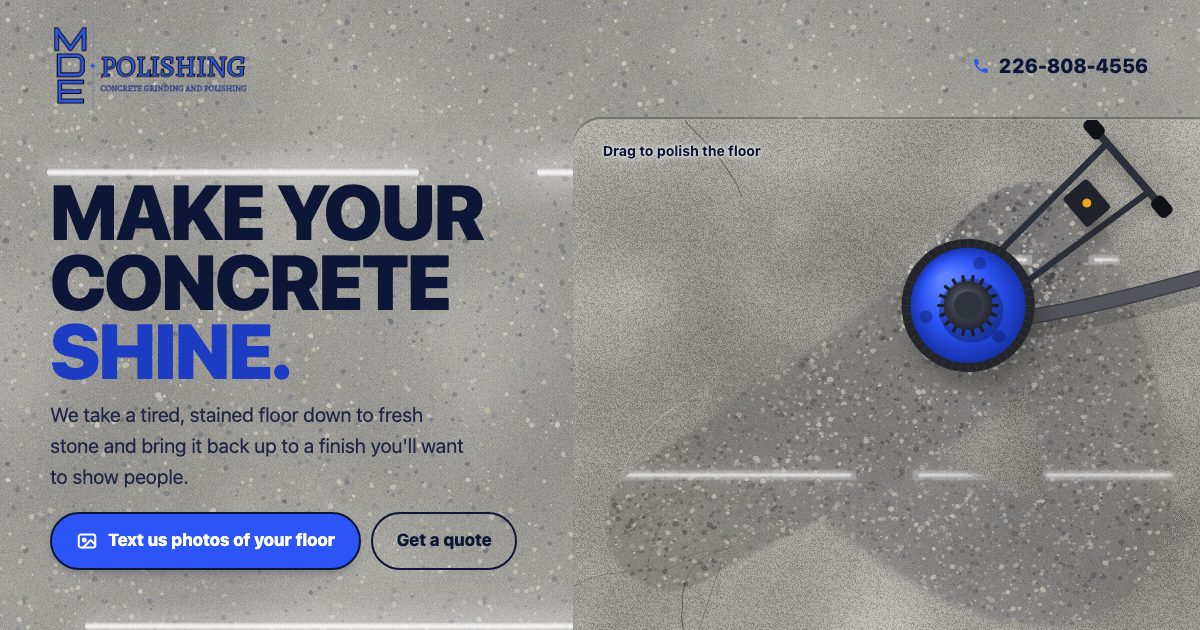
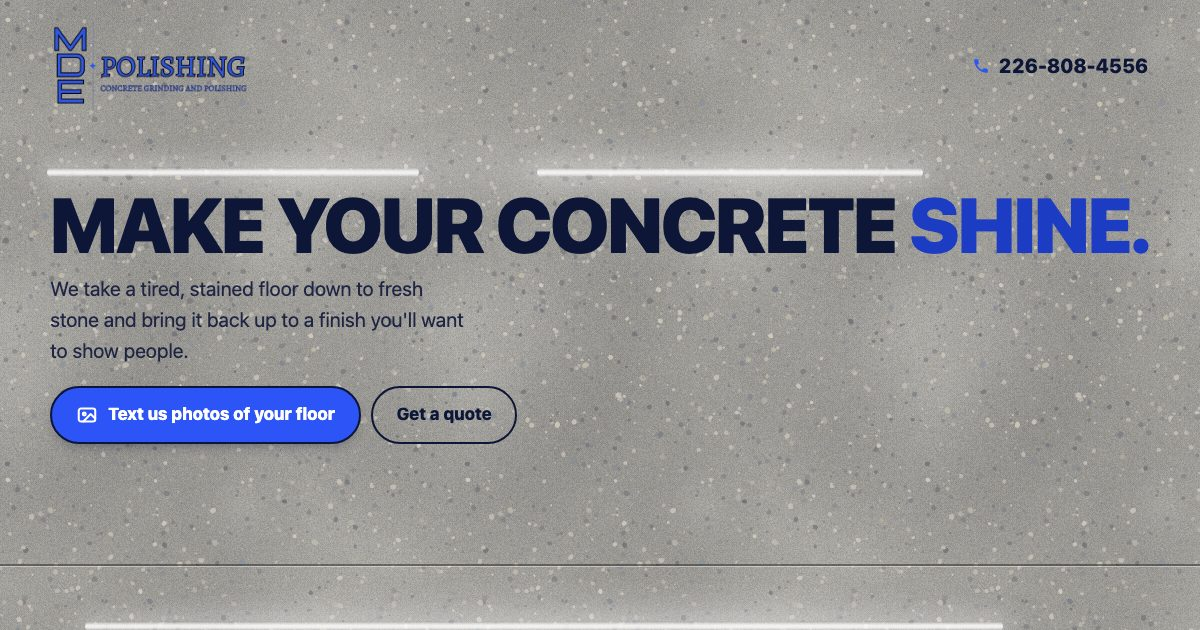
Remove the interactive polish-the-slab hero; hero is copy on the floor
Claude-Session: https://claude.ai/code/session_01MKEojM6ZRDTyDfnrvZtAUF

diff --git a/index.html b/index.html
@@ -70,18 +70,12 @@ p{margin:0}
 .phone:hover{color:var(--blue-deep)}
 
 /* ---------- hero ---------- */
-.hero{position:relative;display:flex;flex-direction:column;min-height:min(calc(100svh - 94px),980px)}
-@media (orientation:landscape) and (max-height:500px){.slab-wrap{min-height:200px}}
-.hero-copy{padding-top:10px;padding-bottom:22px}
+.hero{position:relative}
+.hero-copy{padding-top:10px;padding-bottom:56px}
 .hero h1{font-size:clamp(2.75rem,13.4vw,5.6rem);line-height:.9;letter-spacing:-.025em}
 .hero h1 em{font-style:normal;color:var(--blue-deep)}
 .promise{margin-top:14px;max-width:34ch;font-size:clamp(1.0625rem,4.4vw,1.25rem);color:var(--ink-soft)}
 .actions{display:grid;gap:10px;margin-top:20px}
-.slab-wrap{position:relative;flex:1;min-height:250px;overflow:hidden;background:#bdbab3;box-shadow:0 -1px 0 rgba(255,255,255,.35),0 -3px 0 rgba(38,36,32,.35)}
-#slab{position:absolute;inset:0;width:100%;height:100%;touch-action:none;cursor:grab;-webkit-user-select:none;user-select:none;-webkit-tap-highlight-color:transparent}
-#slab:active{cursor:grabbing}
-.slab-hint{position:absolute;left:16px;top:12px;z-index:1;margin:0;text-shadow:0 0 8px #e9e8e4,0 0 3px #e9e8e4,0 0 1px #e9e8e4;color:var(--ink);font-size:.875rem;font-weight:700;pointer-events:none;transition:opacity .6s}
-.slab-hint.gone{opacity:0}
 
 /* ---------- epoxy pour dividers ---------- */
 .pour{display:block;width:100%;height:46px;margin-top:-1px;margin-bottom:-1px;position:relative;z-index:2}
@@ -194,12 +188,9 @@ footer .links{display:flex;flex-wrap:wrap;gap:4px 22px}
   .wrap{padding:0 40px}
   .top .wrap{padding-top:18px}
   .phone{font-size:1.25rem}
-  .hero{display:grid;grid-template-columns:minmax(0,5fr) minmax(0,6fr);min-height:min(calc(100vh - 92px),820px);max-width:none;padding-left:max(40px,calc((100vw - 1180px)/2 + 40px))}
-  .hero-copy{align-self:center;padding:30px 40px 60px 0;margin:0;max-width:none}
+  .hero-copy{padding-top:70px;padding-bottom:120px}
   .hero h1{font-size:clamp(4rem,6.4vw,6rem)}
   .promise{font-size:1.25rem}
-  .slab-wrap{margin:0;border-radius:28px 0 0 28px}
-  .slab-hint{left:30px;top:20px}
   .band{padding:96px 0 104px}
   .svc .wrap,.how .wrap{display:grid;grid-template-columns:minmax(0,4fr) minmax(0,7fr);gap:60px;align-items:start}
   .svc-list,.steps{margin-top:6px}
@@ -215,10 +206,10 @@ footer .links{display:flex;flex-wrap:wrap;gap:4px 22px}
 <body>
 <!--
 DIRECTION CONTRACT
-THESIS: A raw, dusty slab becomes a floor you can see yourself in. The page lets you do that yourself.
-OWN-WORLD: The polishing floor. The whole page sits on polished salt-and-pepper concrete with the shop's light tubes reflecting in it; the reflections drift as you scroll. Matte grey concrete with trowel marks and an oil stain; a blue floor grinder (the logo's blue) that cuts through it to salt-and-pepper aggregate and a deep gloss that reflects the shop lights. Edges between sections are wet epoxy pours, flowing.
-STORY: Hero (watch the grinder polish, then take the handle) -> what we do (six services, each one text-to-quote) -> how a quote works (photos first) -> before/after sliders of real jobs, then Facebook -> quote form that writes the text -> close with the number.
-FIRST VIEWPORT (phone): logo + number top-right, "Make your concrete shine.", one-line promise, two buttons (text photos / get a quote), the living slab beneath.
+THESIS: A raw, dusty slab becomes a floor you can see yourself in. The page itself is that floor.
+OWN-WORLD: The polishing floor. The whole page sits on polished salt-and-pepper concrete with the shop's light tubes reflecting in it; the reflections drift as you scroll. Light sections meet at saw-cut joints; navy bands are epoxy poured over the floor, with flowing edges.
+STORY: Hero (headline and the two buttons, on the floor) -> what we do (six services, each one text-to-quote) -> how a quote works (photos first) -> before/after sliders of real jobs, then Facebook -> quote form that writes the text -> close with the number.
+FIRST VIEWPORT (phone): logo + number top-right, "Make your concrete shine.", one-line promise, two buttons (text photos / get a quote), all on the polished floor with the light reflections drifting under it.
 FORM: Heavy uppercase system sans, outlined buttons echoing the outlined logo letters, logo blue + navy on concrete grey, navy epoxy bands for depth, saw-cut joints between floor sections. No black grounds.
 -->
 <header class="top">
@@ -237,10 +228,6 @@ FORM: Heavy uppercase system sans, outlined buttons echoing the outlined logo le
         <a class="btn btn-primary" id="hero-text" href="sms:+12268084556"><svg viewBox="0 0 24 24" fill="none" stroke="currentColor" stroke-width="2.2" stroke-linecap="round" stroke-linejoin="round" aria-hidden="true"><rect x="3" y="5" width="18" height="14" rx="2.5"/><circle cx="9" cy="11" r="1.6"/><path d="m21 16-5-5-8 8"/></svg>Text us photos of your floor</a>
         <a class="btn btn-ghost" href="#quote">Get a quote</a>
       </div>
-    </div>
-    <div class="slab-wrap" id="slab-wrap">
-      <canvas id="slab" aria-label="A concrete floor being polished by a floor grinder. Drag across it to polish it yourself." role="img"></canvas>
-      <p class="slab-hint" id="slab-hint">Drag to polish the floor</p>
     </div>
   </section>
 
@@ -553,284 +540,6 @@ var MDE_reduced = window.matchMedia('(prefers-reduced-motion: reduce)').matches;
   size(); place();
   window.addEventListener('resize', function(){ size(); place(); });
   window.addEventListener('scroll', place, {passive:true});
-})();
-
-/* ---------- hero: the slab you polish ---------- */
-(function(){
-  /* tunables */
-  var DPR_CAP = 1.5;           /* animated canvas sharpness cap */
-  var MASK_SCALE = 0.5;        /* polish mask resolution vs CSS px */
-  var REGROW_EVERY = 8;        /* frames between dulling steps */
-  var REGROW = 0.007;          /* how fast polish fades back to matte */
-  var POLISH_RATE = 0.6;       /* opacity per grinder stamp */
-  var FOLLOW = 7.5;            /* how hard the grinder chases your finger (spring) */
-  var DAMP = 5.2;              /* grinder damping */
-  var SPIN = 9;                /* motor cap spin, rad/s */
-  var IDLE_MS = 2600;          /* hand back to autopilot after this */
-  var AUTO_SPEED = 0.00042;    /* autopilot path speed */
-
-  var wrap = document.getElementById('slab-wrap');
-  var cv = document.getElementById('slab');
-  var hint = document.getElementById('slab-hint');
-  var ctx = cv.getContext('2d');
-  var W = 0, H = 0, dpr = 1, R = 40;
-  var raw, polished, layer, lctx, mask, mctx, lights;
-  var g = {x:0, y:0, vx:0, vy:0, ang:Math.PI*0.5, spin:0, px:0, py:0};
-  var hose = {x:0, y:0};       /* vacuum hose tail, drags behind the machine */
-  var ptr = {x:0, y:0, cx:0, cy:0, on:false, last:-1e9};
-  var dust = [], frame = 0, visible = true, lastT = 0, t0 = 0;
-
-  function rnd(a, b){ return a + Math.random() * (b - a); }
-  function mk(w, h){ var c = document.createElement('canvas'); c.width = w; c.height = h; return c; }
-
-  /* organic hairline crack */
-  function crack(c, x, y, len, ang, alpha, w){
-    c.strokeStyle = 'rgba(40,38,36,' + alpha + ')'; c.lineWidth = w; c.lineCap = 'round';
-    c.beginPath(); c.moveTo(x, y);
-    for (var s = 0; s < len; s += 6 * dpr){
-      ang += rnd(-0.22, 0.22); x += Math.cos(ang) * 6 * dpr; y += Math.sin(ang) * 6 * dpr; c.lineTo(x, y);
-      if (Math.random() < 0.025) crack(c, x, y, len * 0.3, ang + rnd(-1, 1), alpha * 0.8, w * 0.7);
-    }
-    c.stroke();
-  }
-
-  function grain(c, w, h, amt){
-    var t = mk(160, 160), tc = t.getContext('2d'), id = tc.createImageData(160, 160), p = id.data;
-    for (var i = 0; i < p.length; i += 4){ var v = Math.random() < 0.5 ? 0 : 255; p[i] = p[i+1] = p[i+2] = v; p[i+3] = Math.random() * amt; }
-    tc.putImageData(id, 0, 0);
-    c.fillStyle = c.createPattern(t, 'repeat'); c.fillRect(0, 0, w, h);
-  }
-
-  function build(){
-    var r = wrap.getBoundingClientRect();
-    var nw = Math.round(r.width), nh = Math.round(r.height);
-    if (nw === W && nh === H) return false;           /* phones fire resize when the address bar moves */
-    W = nw; H = nh; dpr = Math.min(window.devicePixelRatio || 1, DPR_CAP);
-    var w = Math.round(W * dpr), h = Math.round(H * dpr);
-    cv.width = w; cv.height = h;
-    R = Math.max(30, Math.min(64, Math.min(W, H) * 0.13));
-    var seed = [];
-    for (var k = 0; k < 2; k++) seed.push({x:rnd(0, w), y:rnd(0, h), l:rnd(0.35, 0.8) * Math.max(w, h), a:rnd(0, 6.28)});
-    var stain = {x:w * rnd(0.55, 0.8), y:h * rnd(0.3, 0.7), r:Math.min(w, h) * rnd(0.12, 0.18)};
-
-    /* raw slab: matte, dusty, trowel-marked */
-    raw = mk(w, h); var c = raw.getContext('2d');
-    c.fillStyle = '#bcb9b2'; c.fillRect(0, 0, w, h);
-    for (var i = 0; i < 70; i++){
-      var bx = rnd(0, w), by = rnd(0, h), br = rnd(40, 220) * dpr, light = Math.random() < 0.5;
-      var gr = c.createRadialGradient(bx, by, 0, bx, by, br);
-      gr.addColorStop(0, light ? 'rgba(232,229,222,.16)' : 'rgba(120,116,108,.12)'); gr.addColorStop(1, 'rgba(0,0,0,0)');
-      c.fillStyle = gr; c.fillRect(bx - br, by - br, br * 2, br * 2);
-    }
-    c.lineWidth = 1.2 * dpr;
-    for (i = 0; i < 26; i++){                          /* trowel swirls */
-      var tx = rnd(0, w), ty = rnd(0, h), tr = rnd(60, 180) * dpr, a0 = rnd(0, 6.28);
-      c.strokeStyle = 'rgba(236,233,226,' + rnd(0.08, 0.2) + ')';
-      c.beginPath(); c.arc(tx, ty, tr, a0, a0 + rnd(0.5, 1.4)); c.stroke();
-    }
-    var og = c.createRadialGradient(stain.x, stain.y, 0, stain.x, stain.y, stain.r);   /* oil stain */
-    og.addColorStop(0, 'rgba(70,64,56,.42)'); og.addColorStop(0.55, 'rgba(84,78,70,.28)'); og.addColorStop(1, 'rgba(90,84,76,0)');
-    c.save(); c.translate(stain.x, stain.y); c.scale(1.35, 0.85); c.translate(-stain.x, -stain.y);
-    c.fillStyle = og; c.beginPath(); c.arc(stain.x, stain.y, stain.r, 0, 6.28); c.fill(); c.restore();
-    for (i = 0; i < 160; i++){ c.fillStyle = 'rgba(90,86,80,' + rnd(0.15, 0.4) + ')'; c.beginPath(); c.arc(rnd(0, w), rnd(0, h), rnd(0.5, 1.6) * dpr, 0, 6.28); c.fill(); }  /* pits */
-    grain(c, w, h, 46);
-    seed.forEach(function(s){ crack(c, s.x, s.y, s.l, s.a, 0.42, 1.3 * dpr); });
-
-    /* polished slab: ground to the stone, clear and glossy */
-    polished = mk(w, h); c = polished.getContext('2d');
-    c.fillStyle = '#8f8c86'; c.fillRect(0, 0, w, h);
-    for (i = 0; i < 40; i++){
-      bx = rnd(0, w); by = rnd(0, h); br = rnd(60, 260) * dpr;
-      gr = c.createRadialGradient(bx, by, 0, bx, by, br);
-      gr.addColorStop(0, Math.random() < 0.5 ? 'rgba(165,161,153,.18)' : 'rgba(110,106,100,.16)'); gr.addColorStop(1, 'rgba(0,0,0,0)');
-      c.fillStyle = gr; c.fillRect(bx - br, by - br, br * 2, br * 2);
-    }
-    var stones = ['#5e5a55','#6c675f','#4a4642','#7d776e','#9b948a','#3d3a37','#a99f90','#c9c1b3'];   /* cut aggregate, salt and pepper */
-    var n = Math.round(w * h / (9 * dpr * dpr));
-    for (i = 0; i < n; i++){
-      var sx = rnd(0, w), sy = rnd(0, h), sr = Math.pow(Math.random(), 5) * 3.4 * dpr + 0.35 * dpr, sides = 5 + (Math.random() * 4 | 0), rot = rnd(0, 6.28);
-      c.fillStyle = stones[Math.random() * stones.length | 0]; c.globalAlpha = rnd(0.8, 1);
-      c.beginPath();
-      for (var v = 0; v < sides; v++){ var aa = rot + v / sides * 6.28, rr = sr * rnd(0.6, 1.15); c[v ? 'lineTo' : 'moveTo'](sx + Math.cos(aa) * rr, sy + Math.sin(aa) * rr * rnd(0.7, 1)); }
-      c.closePath(); c.fill();
-    }
-    c.globalAlpha = 1;
-    og = c.createRadialGradient(stain.x, stain.y, 0, stain.x, stain.y, stain.r);    /* stain mostly ground away */
-    og.addColorStop(0, 'rgba(70,64,56,.08)'); og.addColorStop(1, 'rgba(70,64,56,0)');
-    c.fillStyle = og; c.fillRect(0, 0, w, h);
-    grain(c, w, h, 12);
-    seed.forEach(function(s){ crack(c, s.x, s.y, s.l, s.a, 0.5, 1.1 * dpr); });
-    var sheen = c.createLinearGradient(0, 0, w, h);                                /* clear-coat sheen */
-    sheen.addColorStop(0, 'rgba(255,255,255,.10)'); sheen.addColorStop(0.45, 'rgba(255,255,255,.02)'); sheen.addColorStop(1, 'rgba(255,255,255,.08)');
-    c.fillStyle = sheen; c.fillRect(0, 0, w, h);
-
-    /* reflection of the shop's light tubes, drawn once, slid each frame (shadowBlur, not ctx.filter: older iPhones lack filter) */
-    lights = mk(w, h * 2); c = lights.getContext('2d');
-    for (var row = 0; row < 5; row++){
-      var ly = h * 0.35 + row * h * 0.4;
-      for (var col = -1; col < 3; col++){
-        var lx = col * w * 0.55 + (row % 2) * w * 0.28, lw = w * 0.46;
-        c.save();
-        c.shadowColor = 'rgba(255,255,248,.75)'; c.shadowBlur = 18 * dpr;
-        c.fillStyle = 'rgba(255,255,250,.35)'; c.fillRect(lx, ly - 5 * dpr, lw, 10 * dpr);
-        c.shadowBlur = 3 * dpr;
-        c.fillStyle = 'rgba(255,255,255,.95)'; c.fillRect(lx + lw * 0.02, ly - 1.5 * dpr, lw * 0.96, 3 * dpr);
-        c.restore();
-      }
-    }
-    var sky = c.createLinearGradient(0, 0, w, 0);                                    /* faint blue from a garage door */
-    sky.addColorStop(0, 'rgba(120,150,255,0)'); sky.addColorStop(0.75, 'rgba(120,150,255,.10)'); sky.addColorStop(1, 'rgba(120,150,255,0)');
-    c.fillStyle = sky; c.fillRect(0, 0, w, h * 2);
-
-    layer = mk(w, h); lctx = layer.getContext('2d');
-    mask = mk(Math.max(1, Math.round(W * MASK_SCALE)), Math.max(1, Math.round(H * MASK_SCALE))); mctx = mask.getContext('2d');
-
-    /* start with a first pass already done, so there's something to see */
-    g.x = W * 0.3; g.y = H * 0.5; g.vx = g.vy = 0; hose.x = g.x + R * 3; hose.y = g.y + R * 2;
-    for (var s = 0; s < 260; s++){ autoTarget(s * 40); g.x += (ptr.cx - g.x) * 0.08; g.y += (ptr.cy - g.y) * 0.08; stamp(g.x, g.y, 0.5); }
-    return true;
-  }
-
-  function autoTarget(t){
-    var u = t * AUTO_SPEED;
-    ptr.cx = W * (0.5 + 0.36 * Math.sin(u * 1.0 + 0.4) + 0.06 * Math.sin(u * 3.1));
-    ptr.cy = H * (0.52 + 0.3 * Math.sin(u * 1.7 + 1.1) + 0.06 * Math.cos(u * 2.3));
-  }
-
-  function stamp(x, y, k){
-    var s = MASK_SCALE, rr = R * 1.05 * s;
-    var gr = mctx.createRadialGradient(x * s, y * s, 0, x * s, y * s, rr);
-    gr.addColorStop(0, 'rgba(0,0,0,' + (POLISH_RATE * k) + ')'); gr.addColorStop(0.86, 'rgba(0,0,0,' + (POLISH_RATE * k) + ')'); gr.addColorStop(1, 'rgba(0,0,0,0)');
-    mctx.globalCompositeOperation = 'source-over'; mctx.fillStyle = gr;
-    mctx.beginPath(); mctx.arc(x * s, y * s, rr, 0, 6.28); mctx.fill();
-  }
-
-  function rr(c, x, y, w, h, r){ c.beginPath(); if (c.roundRect) c.roundRect(x, y, w, h, r); else c.rect(x, y, w, h); c.fill(); }
-
-  function drawGrinder(c, x, y, ang, spin){
-    var r = R, i, a;
-    /* vacuum hose from the shroud port back to the dust extractor */
-    var pa = ang + 0.9, portX = x + Math.cos(pa) * r * 0.95, portY = y + Math.sin(pa) * r * 0.95;
-    var midX = x + Math.cos(ang + 0.7) * r * 2.4, midY = y + Math.sin(ang + 0.7) * r * 2.4;
-    c.save(); c.lineCap = 'round';
-    c.lineWidth = r * 0.3; c.strokeStyle = 'rgba(30,28,26,.18)';
-    c.beginPath(); c.moveTo(portX + r * 0.1, portY + r * 0.18); c.quadraticCurveTo(midX + r * 0.1, midY + r * 0.18, hose.x + r * 0.1, hose.y + r * 0.18); c.stroke();
-    c.lineWidth = r * 0.24; c.strokeStyle = '#3b3e46';
-    c.beginPath(); c.moveTo(portX, portY); c.quadraticCurveTo(midX, midY, hose.x, hose.y); c.stroke();
-    c.setLineDash([r * 0.05, r * 0.07]); c.lineWidth = r * 0.2; c.strokeStyle = 'rgba(255,255,255,.12)'; c.stroke(); c.setLineDash([]);
-    c.restore();
-
-    c.save(); c.translate(x, y);
-    /* handle: two rails back to a wide handlebar, control box on the rails (+x = toward the operator) */
-    c.save(); c.rotate(ang);
-    c.shadowColor = 'rgba(30,28,26,.3)'; c.shadowBlur = r * 0.2; c.shadowOffsetX = r * 0.08; c.shadowOffsetY = r * 0.14;
-    c.strokeStyle = '#2b2f3a'; c.lineWidth = r * 0.1; c.lineCap = 'round';
-    c.beginPath(); c.moveTo(r * 0.7, -r * 0.3); c.lineTo(r * 3.3, -r * 0.5); c.moveTo(r * 0.7, r * 0.3); c.lineTo(r * 3.3, r * 0.5); c.stroke();
-    c.lineWidth = r * 0.12; c.beginPath(); c.moveTo(r * 3.3, -r * 0.8); c.lineTo(r * 3.3, r * 0.8); c.stroke();
-    c.fillStyle = '#1f222b'; rr(c, r * 2.2, -r * 0.3, r * 0.5, r * 0.6, r * 0.06);
-    c.shadowColor = 'transparent';
-    c.fillStyle = '#f0a51c'; c.beginPath(); c.arc(r * 2.45, 0, r * 0.07, 0, 6.28); c.fill();      /* power light */
-    c.fillStyle = '#0f1116'; rr(c, r * 3.18, -r * 0.98, r * 0.24, r * 0.34, r * 0.08); rr(c, r * 3.18, r * 0.64, r * 0.24, r * 0.34, r * 0.08);
-    c.restore();
-    /* brush skirt, with the machine's shadow on the floor */
-    c.save(); c.shadowColor = 'rgba(30,28,26,.35)'; c.shadowBlur = r * 0.35; c.shadowOffsetX = r * 0.12; c.shadowOffsetY = r * 0.22;
-    c.fillStyle = '#23252b'; c.beginPath(); c.arc(0, 0, r * 1.04, 0, 6.28); c.fill(); c.restore();
-    c.strokeStyle = 'rgba(255,255,255,.07)'; c.lineWidth = 1;
-    for (i = 0; i < 48; i++){ a = i / 48 * 6.28; c.beginPath(); c.moveTo(Math.cos(a) * r * 0.9, Math.sin(a) * r * 0.9); c.lineTo(Math.cos(a) * r * 1.03, Math.sin(a) * r * 1.03); c.stroke(); }
-    /* blue shroud, lit from the top left */
-    var deck = c.createRadialGradient(-r * 0.35, -r * 0.4, r * 0.1, 0, 0, r * 0.92);
-    deck.addColorStop(0, '#5f80ff'); deck.addColorStop(0.55, '#2c54f7'); deck.addColorStop(1, '#1631a8');
-    c.fillStyle = deck; c.beginPath(); c.arc(0, 0, r * 0.9, 0, 6.28); c.fill();
-    /* the three grinding heads turning under the shroud, seen through its vents */
-    c.save(); c.rotate(spin * 0.35); c.fillStyle = 'rgba(10,18,60,.35)';
-    for (i = 0; i < 3; i++){ c.save(); c.rotate(i / 3 * 6.28); c.beginPath(); c.arc(r * 0.68, 0, r * 0.1, 0, 6.28); c.fill(); c.restore(); }
-    c.restore();
-    /* motor housing with cooling fins */
-    c.fillStyle = 'rgba(10,16,50,.35)'; c.beginPath(); c.arc(r * 0.05, r * 0.08, r * 0.5, 0, 6.28); c.fill();
-    c.fillStyle = '#1b1e26';
-    for (i = 0; i < 18; i++){ c.save(); c.rotate(i / 18 * 6.28); c.fillRect(r * 0.36, -r * 0.025, r * 0.12, r * 0.05); c.restore(); }
-    var mot = c.createRadialGradient(-r * 0.1, -r * 0.12, r * 0.03, 0, 0, r * 0.4);
-    mot.addColorStop(0, '#5d6270'); mot.addColorStop(1, '#22252e');
-    c.fillStyle = mot; c.beginPath(); c.arc(0, 0, r * 0.38, 0, 6.28); c.fill();
-    c.fillStyle = '#2f333d'; c.beginPath(); c.arc(0, 0, r * 0.22, 0, 6.28); c.fill();
-    c.restore();
-  }
-
-  function step(t){
-    if (!lastT) { lastT = t; t0 = t; }
-    var dt = Math.min(0.05, (t - lastT) / 1000); lastT = t; frame++;
-    var r = cv.getBoundingClientRect();                       /* read every frame: the page scrolls under a finger */
-    var manual = (t - ptr.last) < IDLE_MS;
-    if (manual){ ptr.cx = ptr.x - r.left; ptr.cy = ptr.y - r.top; }
-    else if (!MDE_reduced) autoTarget(t - t0 + 3000);
-    else { ptr.cx = g.x; ptr.cy = g.y; }
-    /* heavy machine on a spring */
-    var ax = (ptr.cx - g.x) * FOLLOW - g.vx * DAMP, ay = (ptr.cy - g.y) * FOLLOW - g.vy * DAMP;
-    g.vx += ax * dt; g.vy += ay * dt; g.x += g.vx * dt; g.y += g.vy * dt;
-    g.x = Math.max(-R * 0.4, Math.min(W + R * 0.4, g.x)); g.y = Math.max(-R * 0.4, Math.min(H + R * 0.4, g.y));
-    var sp = Math.hypot(g.vx, g.vy);
-    if (sp > 12){                                              /* handle trails behind the direction of travel */
-      var want = Math.atan2(-g.vy, -g.vx), d = want - g.ang;
-      d = Math.atan2(Math.sin(d), Math.cos(d)); g.ang += d * Math.min(1, dt * 3.2);
-    }
-    g.spin += SPIN * dt;
-    hose.x += (g.x + Math.cos(g.ang + 0.5) * R * 6 - hose.x) * 0.04; hose.y += (g.y + Math.sin(g.ang + 0.5) * R * 6 - hose.y) * 0.04;
-    /* polish where the heads have been */
-    var dist = Math.hypot(g.x - g.px, g.y - g.py), steps = Math.max(1, Math.ceil(dist / (R * 0.25)));
-    for (var i = 1; i <= steps; i++) stamp(g.px + (g.x - g.px) * i / steps, g.py + (g.y - g.py) * i / steps, 1 / Math.sqrt(steps) * 0.55 + 0.1);
-    g.px = g.x; g.py = g.y;
-    if (frame % REGROW_EVERY === 0){ mctx.globalCompositeOperation = 'destination-out'; mctx.fillStyle = 'rgba(0,0,0,' + REGROW + ')'; mctx.fillRect(0, 0, mask.width, mask.height); }
-    /* dust flung off the skirt */
-    var count = W < 600 ? 1 : 2;
-    for (i = 0; i < count; i++){
-      var a = Math.random() * 6.28, tv = rnd(30, 90);
-      dust.push({x:g.x + Math.cos(a) * R * 1.05, y:g.y + Math.sin(a) * R * 1.05, vx:-Math.sin(a) * tv + Math.cos(a) * 20 + g.vx * 0.3, vy:Math.cos(a) * tv + Math.sin(a) * 20 + g.vy * 0.3, life:1, s:rnd(0.8, 2.2)});
-    }
-    if (dust.length > 140) dust.splice(0, dust.length - 140);
-    render(t);
-  }
-
-  function render(t){
-    var w = cv.width, h = cv.height;
-    ctx.setTransform(1, 0, 0, 1, 0, 0);
-    ctx.drawImage(raw, 0, 0);
-    /* polished layer: stone + moving reflection, cut by the mask */
-    lctx.globalCompositeOperation = 'source-over'; lctx.drawImage(polished, 0, 0);
-    var sc = window.scrollY || 0, par = (g.x / Math.max(1, W) - 0.5);
-    lctx.globalCompositeOperation = 'screen';
-    lctx.drawImage(lights, -par * w * 0.06, -h * 0.5 - (sc * 0.35 * dpr) % (h * 0.34) + Math.sin(t * 0.0003) * 6 * dpr);
-    lctx.globalCompositeOperation = 'destination-in';
-    lctx.imageSmoothingEnabled = true; lctx.drawImage(mask, 0, 0, w, h);
-    ctx.drawImage(layer, 0, 0);
-    /* dust */
-    ctx.setTransform(dpr, 0, 0, dpr, 0, 0);
-    for (var i = dust.length - 1; i >= 0; i--){
-      var p = dust[i]; p.life -= 0.022; if (p.life <= 0){ dust.splice(i, 1); continue; }
-      p.x += p.vx / 60; p.y += p.vy / 60; p.vx *= 0.94; p.vy *= 0.94;
-      ctx.fillStyle = 'rgba(236,233,226,' + (p.life * 0.7) + ')';
-      ctx.beginPath(); ctx.arc(p.x, p.y, p.s * (1.4 - p.life * 0.4), 0, 6.28); ctx.fill();
-    }
-    drawGrinder(ctx, g.x, g.y, g.ang, g.spin);
-  }
-
-  function onMove(x, y){
-    ptr.x = x; ptr.y = y; ptr.last = performance.now();
-    if (!hint.classList.contains('gone')) hint.classList.add('gone');
-    MDE_loop.wake();
-  }
-  cv.addEventListener('pointerdown', function(e){ e.preventDefault(); try { cv.setPointerCapture(e.pointerId); } catch (_) {} onMove(e.clientX, e.clientY); });
-  cv.addEventListener('pointermove', function(e){ if (e.pointerType === 'mouse' || e.buttons || e.pressure > 0) onMove(e.clientX, e.clientY); });
-  cv.addEventListener('touchmove', function(e){ var tt = e.touches[0]; if (tt) onMove(tt.clientX, tt.clientY); }, {passive:true});
-  cv.addEventListener('dragstart', function(e){ e.preventDefault(); });
-
-  requestAnimationFrame(function(){                          /* let the headline paint first */
-    build(); g.px = g.x; g.py = g.y;
-    window.addEventListener('resize', function(){ if (build()) { g.px = g.x; g.py = g.y; render(performance.now()); } });
-    if (MDE_reduced) render(0);
-    if ('IntersectionObserver' in window) new IntersectionObserver(function(es){ visible = es[0].isIntersecting; if (visible) MDE_loop.wake(); }).observe(wrap);
-    MDE_loop.add({active:function(){ return visible && (!MDE_reduced || performance.now() - ptr.last < IDLE_MS); }, step:step});
-    MDE_loop.wake();
-  });
 })();
 
 /* ---------- before/after sliders ---------- */

diff --git a/HANDOFF.md b/HANDOFF.md
@@ -5,7 +5,7 @@
 ## What's built
 - One page, phone first: header (real logo + `226-808-4556` top-right), hero, What we do, How a quote works, before/after proof band with the Facebook link under it, quote form, close, footer.
 - **World:** the polishing floor. The whole page sits on polished salt-and-pepper concrete, drawn in JS as a seamless tile from Ellie's reference photo. The shop's light tubes reflect in it and drift at about half the scroll speed, so they slide across the floor as you scroll. Light sections meet at saw-cut control joints, and the navy bands are epoxy poured over the floor, with flowing edges that bulge away from the pointer or finger. Logo blue `#2c54f7` and navy `#14215a`; buttons are outlined in navy-black like the logo's letters. Tunables sit at the top of the floor and lights IIFEs: chip count, size and contrast; light speed, gap, ease and smear.
-- **Signature:** the hero slab is a matte, trowel-marked concrete floor with cracks and an oil stain. A blue walk-behind grinder (handlebar, control box, vacuum hose) polishes it on autopilot down to salt-and-pepper aggregate, with the shop's light tubes reflecting in the gloss. Mouse or finger takes over, dragging in any direction, including up and down on phones. It returns to autopilot after 2.6s idle, and the polish slowly dulls back so there's always floor left to do. Tunables are at the top of the hero IIFE.
+- **Signature:** the polished floor itself: its light reflections drift as you scroll, the epoxy-pour edges bulge away from a finger or the pointer, and the before/after sliders. The hero is copy only: headline, promise and the two buttons, sitting on the floor. (Ellie removed the interactive polish-the-slab canvas on 2026-10-18.)
 - **Before/after:** two sliders in the navy band: drag the line on desktop or phone, or use the arrow keys. Each sweeps once when it first comes into view. On phones, vertical swipes still scroll the page.
 - **Contact:** the hero button "Text us photos of your floor" opens `sms:` with a pre-written message. Each service row texts about that service on phones; on desktop it jumps to the form with the service ticked. The form writes the text message: on phones it opens the text app, on desktop it shows the message with a Copy button. Calling uses the header number, plus "or call" in the close section.
 - **Verified:** Chromium and WebKit at 360/390/430/1440: no sideways scroll, tap targets ≥44px, inputs 17px, primary button on the first screen. A touch sweep polishes without scrolling the page. Form errors and the composed text decode correctly. The detector is clean apart from two suppressed false positives and one accepted note (below).
@@ -51,7 +51,6 @@
 - Real-device touch on iPhone Safari and inside Facebook's in-app browser (WebKit via Playwright stands in).
 - The scroll-driven light reflections on a real iPhone (iOS address-bar resizing of the fixed layer).
 - Real `sms:` handoff with a prefilled body on iOS and Android.
-- Frame rate on old phones (desktop ~110fps; the canvas is capped at 1.5x DPR).
-- Older iOS without `roundRect` (falls back to plain rects).
+- Frame rate on old phones while scrolling. The lights are a handful of transformed divs set straight from the scroll event, and the floor is a single repeating background image.
 - Detector note left standing: "flat type hierarchy" counts the 14–22px body/label sizes. The display scale (h1 up to 96px, h2 up to 58px) carries the hierarchy.
 - Impeccable concept-roll seed: skipped. The pitch-site pipeline chooses the world unattended.
